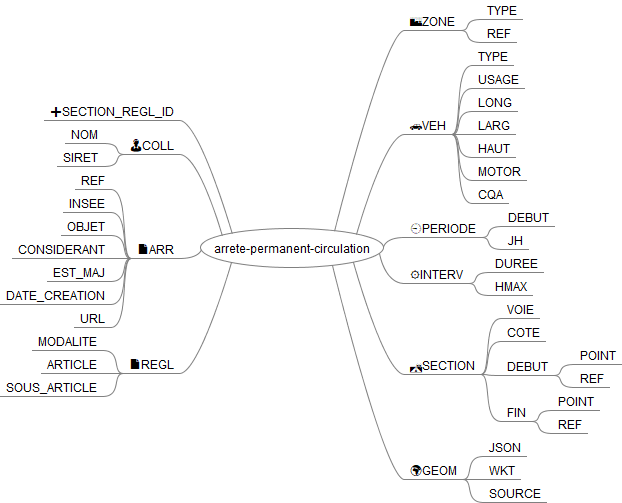
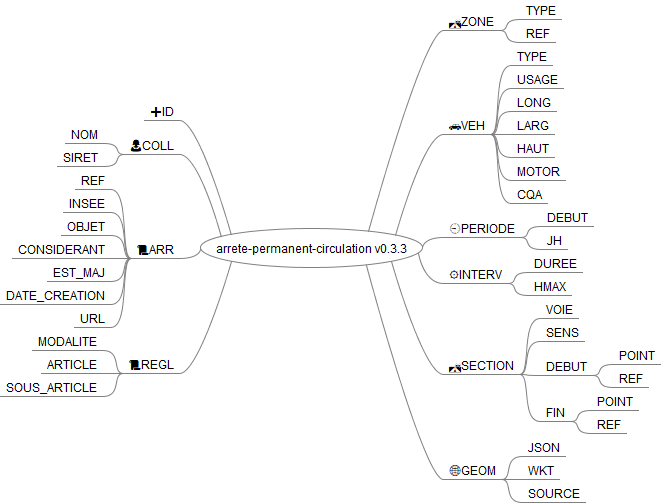
maj du diagramme

diff --git a/arrete-permanent-circulation.mm b/arrete-permanent-circulation.mm
@@ -1,11 +1,11 @@
-<map version="1.0.1">
+<map version="1.1.0">
 <!-- To view this file, download free mind mapping software FreeMind from http://freemind.sourceforge.net -->
-<node CREATED="1619865105173" ID="ID_1749962809" MODIFIED="1619865204302" TEXT="arrete-permanent-circulation">
-<node CREATED="1619865353016" ID="ID_1858368593" MODIFIED="1619865655957" POSITION="right" TEXT="&#xd83c;&#xdf06;ZONE">
+<node CREATED="1619865105173" ID="ID_1749962809" MODIFIED="1620394174024" TEXT="arrete-permanent-circulation v0.3.3">
+<node CREATED="1619865353016" ID="ID_1858368593" MODIFIED="1620394017018" POSITION="right" TEXT="&#xd83d;&#xdee3;ZONE">
 <node CREATED="1619865357168" ID="ID_1562763376" MODIFIED="1619865358593" TEXT="TYPE"/>
 <node CREATED="1619865358788" ID="ID_1877635793" MODIFIED="1619865359479" TEXT="REF"/>
 </node>
-<node CREATED="1619865210914" ID="ID_1209478113" MODIFIED="1619865570861" POSITION="right" TEXT="&#xd83d;&#xde97;VEH">
+<node CREATED="1619865210914" ID="ID_1209478113" MODIFIED="1620393957368" POSITION="right" TEXT="&#xd83d;&#xde97;VEH">
 <node CREATED="1619865419573" ID="ID_894149425" MODIFIED="1619865421842" TEXT="TYPE"/>
 <node CREATED="1619865255919" ID="ID_1034836512" MODIFIED="1619865257560" TEXT="USAGE"/>
 <node CREATED="1619865258031" ID="ID_333236960" MODIFIED="1619865263161" TEXT="LONG"/>
@@ -22,9 +22,9 @@
 <node CREATED="1619865452460" ID="ID_842076771" MODIFIED="1619865453585" TEXT="DUREE"/>
 <node CREATED="1619865454354" ID="ID_469729070" MODIFIED="1619865455321" TEXT="HMAX"/>
 </node>
-<node CREATED="1619865212205" ID="ID_202979938" MODIFIED="1619865610458" POSITION="right" TEXT="&#xd83d;&#xdee3;SECTION">
+<node CREATED="1619865212205" ID="ID_202979938" MODIFIED="1620394009728" POSITION="right" TEXT="&#xd83d;&#xdee3;SECTION">
 <node CREATED="1619865232855" ID="ID_1755414890" MODIFIED="1619865236563" TEXT="VOIE"/>
-<node CREATED="1619865465468" ID="ID_849551227" MODIFIED="1619865466221" TEXT="COTE"/>
+<node CREATED="1619865465468" ID="ID_849551227" MODIFIED="1620393932927" TEXT="SENS"/>
 <node CREATED="1619865237262" ID="ID_385085536" MODIFIED="1619865239196" TEXT="DEBUT">
 <node CREATED="1619865242681" ID="ID_1381565508" MODIFIED="1619865246840" TEXT="POINT"/>
 <node CREATED="1619865247338" ID="ID_1841473983" MODIFIED="1619865248073" TEXT="REF"/>
@@ -34,17 +34,17 @@
 <node CREATED="1619865252070" ID="ID_1328929257" MODIFIED="1619865252929" TEXT="REF"/>
 </node>
 </node>
-<node CREATED="1619865216643" ID="ID_214707315" MODIFIED="1619865625630" POSITION="right" TEXT="&#xd83c;&#xdf0d;GEOM">
+<node CREATED="1619865216643" ID="ID_214707315" MODIFIED="1620394027621" POSITION="right" TEXT="&#xd83c;&#xdf10;GEOM">
 <node CREATED="1619865219378" ID="ID_1764543800" MODIFIED="1619865225432" TEXT="JSON"/>
 <node CREATED="1619865226075" ID="ID_461644584" MODIFIED="1619865227598" TEXT="WKT"/>
 <node CREATED="1619865228086" ID="ID_1862991070" MODIFIED="1619865229318" TEXT="SOURCE"/>
 </node>
-<node CREATED="1619865309415" ID="ID_1039630993" MODIFIED="1619865758457" POSITION="left" TEXT="&#x2795;SECTION_REGL_ID"/>
-<node CREATED="1619865371544" ID="ID_472636446" MODIFIED="1619865690079" POSITION="left" TEXT="&#xd83d;&#xdc68;COLL">
+<node CREATED="1619865309415" ID="ID_1039630993" MODIFIED="1620394037036" POSITION="left" TEXT="&#x2795;ID"/>
+<node CREATED="1619865371544" ID="ID_472636446" MODIFIED="1620393982178" POSITION="left" TEXT="&#xd83d;&#xdc69;&#x200d;COLL">
 <node CREATED="1619865373890" ID="ID_1651310421" MODIFIED="1619865374896" TEXT="NOM"/>
 <node CREATED="1619865375367" ID="ID_573605816" MODIFIED="1619865376445" TEXT="SIRET"/>
 </node>
-<node CREATED="1619865204755" ID="ID_4130191" MODIFIED="1619865702420" POSITION="left" TEXT="&#xd83d;&#xdcc4;ARR">
+<node CREATED="1619865204755" ID="ID_4130191" MODIFIED="1620393990660" POSITION="left" TEXT="&#xd83d;&#xdcdc;ARR">
 <node CREATED="1619865287250" ID="ID_1946612117" MODIFIED="1619865290662" TEXT="REF"/>
 <node CREATED="1619865404421" ID="ID_968937658" MODIFIED="1619865405358" TEXT="INSEE"/>
 <node CREATED="1619865379996" ID="ID_1848599244" MODIFIED="1619865381519" TEXT="OBJET"/>
@@ -53,7 +53,7 @@
 <node CREATED="1619865295513" ID="ID_848592064" MODIFIED="1619865305947" TEXT="DATE_CREATION"/>
 <node CREATED="1619865395057" ID="ID_1927969250" MODIFIED="1619865395729" TEXT="URL"/>
 </node>
-<node CREATED="1619865209232" ID="ID_1560919460" MODIFIED="1619865705929" POSITION="left" TEXT="&#xd83d;&#xdcc4;REGL">
+<node CREATED="1619865209232" ID="ID_1560919460" MODIFIED="1620394000336" POSITION="left" TEXT="&#xd83d;&#xdcdc;REGL">
 <node CREATED="1619865272062" ID="ID_1187764807" MODIFIED="1619865273672" TEXT="MODALITE"/>
 <node CREATED="1619865273979" ID="ID_268896520" MODIFIED="1619865275385" TEXT="ARTICLE"/>
 <node CREATED="1619865276156" ID="ID_944186243" MODIFIED="1619865280087" TEXT="SOUS_ARTICLE"/>

diff --git a/CHANGELOG.md b/CHANGELOG.md
@@ -1,11 +1,20 @@
 # Changelog
 
+## 0.3.3
+- Ajout de ressources (`sources`)
+- Ajout de Julie Raffaillac dans les contributeurs
+- Ajout de Vélo-cargos dans `VEH_TYPE`
+- Ajout d'usages dans `VEH_USAGE`
+- Ajout de valeurs dans `VEH_CQA`
+- Renommage de `SECTION_COTE` en `SECTION_SENS`
+- Ajout de Nord, Sud, Est, Ouest dans `SECTION_SENS`
+
 ## 0.3.2
 - Ajout de valeur `Autocars` dans `VEH_USAGE`
 - Ajout de valeur `Transport de denrées animales ou végétales` dans `VEH_USAGE`
 
 ## 0.3.1
-- Champ `SECTION_REGL_ID` renommé en `ID`
+- Renommage de `SECTION_REGL_ID` renommé en `ID`
 - Ajout de Véhicules de travaux dans `VEH_USAGE`
 - Réordonnancement des champs `ARR_*`
 
